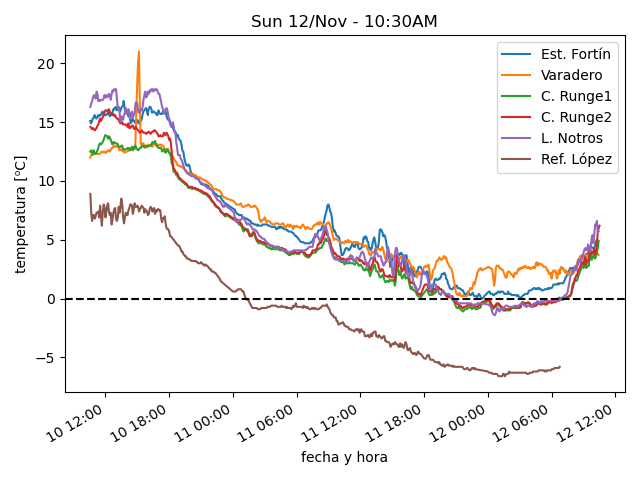
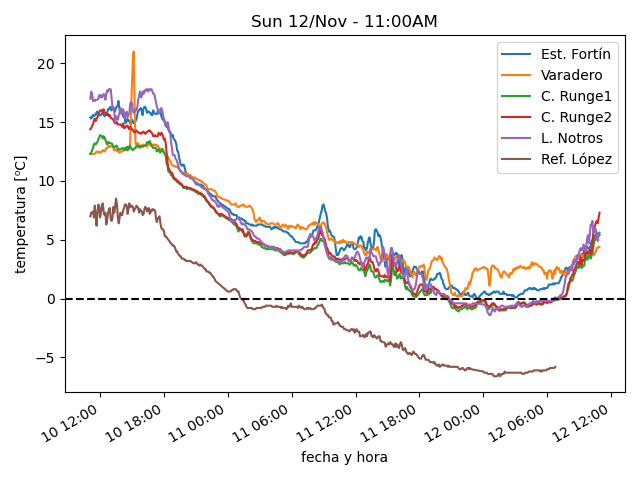
actualiza datos

diff --git a/estaciones/estacion2.html b/estaciones/estacion2.html
@@ -18,32 +18,32 @@
     </tr>
     <tr>
      <td class="stats_data">
-      10:24AM
+      10:54AM
      </td>
     </tr>
     <tr>
      <td class="stats_data">
-      3.7⁰C
+      4.4⁰C
      </td>
     </tr>
     <tr>
      <td class="stats_data">
-      -1.4⁰C
+      -0.1⁰C
      </td>
     </tr>
     <tr>
      <td class="stats_data">
-      69.2%
+      72.6%
      </td>
     </tr>
     <tr>
      <td class="stats_data">
-      1023.23hPa
+      1023.33hPa
      </td>
     </tr>
     <tr>
      <td class="stats_data">
-      13.9/18.5 km/hr NW
+      18.1/22.4 km/hr WNW
      </td>
     </tr>
     <tr>
@@ -53,12 +53,12 @@
     </tr>
     <tr>
      <td class="stats_data">
-      1.0
+      2.0
      </td>
     </tr>
     <tr>
      <td class="stats_data">
-      129.7 W/m²
+      222.5 W/m²
      </td>
     </tr>
    </tbody>

diff --git a/estaciones/estacion1.html b/estaciones/estacion1.html
@@ -18,22 +18,22 @@
     </tr>
     <tr>
      <td class="stats_data">
-      10:14AM
+      10:54AM
      </td>
     </tr>
     <tr>
      <td class="stats_data">
-      5.0⁰C
+      5.4⁰C
      </td>
     </tr>
     <tr>
      <td class="stats_data">
-      -2.4⁰C
+      -3.1⁰C
      </td>
     </tr>
     <tr>
      <td class="stats_data">
-      58.7%
+      54.0%
      </td>
     </tr>
     <tr>
@@ -43,7 +43,7 @@
     </tr>
     <tr>
      <td class="stats_data">
-      16.1/25.2 km/hr W
+      14.1/30.6 km/hr W
      </td>
     </tr>
     <tr>
@@ -53,12 +53,12 @@
     </tr>
     <tr>
      <td class="stats_data">
-      3.2
+      4.3
      </td>
     </tr>
     <tr>
      <td class="stats_data">
-      722.0 W/m²
+      874.0 W/m²
      </td>
     </tr>
    </tbody>

diff --git a/estaciones/estacion4.html b/estaciones/estacion4.html
@@ -18,32 +18,32 @@
     </tr>
     <tr>
      <td class="stats_data">
-      10:29AM
+      10:54AM
      </td>
     </tr>
     <tr>
      <td class="stats_data">
-      6.2⁰C
+      7.3⁰C
      </td>
     </tr>
     <tr>
      <td class="stats_data">
-      -0.2⁰C
+      0.4⁰C
      </td>
     </tr>
     <tr>
      <td class="stats_data">
-      63.5%
+      61.7%
      </td>
     </tr>
     <tr>
      <td class="stats_data">
-      1016.83hPa
+      1016.93hPa
      </td>
     </tr>
     <tr>
      <td class="stats_data">
-      2.1/3.2 km/hr NW
+      2.1/2.9 km/hr SSW
      </td>
     </tr>
     <tr>
@@ -58,7 +58,7 @@
     </tr>
     <tr>
      <td class="stats_data">
-      967.9 W/m²
+      968.1 W/m²
      </td>
     </tr>
    </tbody>

diff --git a/estaciones/estacion3.html b/estaciones/estacion3.html
@@ -18,12 +18,12 @@
     </tr>
     <tr>
      <td class="stats_data">
-      10:24AM
+      10:54AM
      </td>
     </tr>
     <tr>
      <td class="stats_data">
-      4.9⁰C
+      5.6⁰C
      </td>
     </tr>
     <tr>
@@ -33,17 +33,17 @@
     </tr>
     <tr>
      <td class="stats_data">
-      65.5%
+      62.1%
      </td>
     </tr>
     <tr>
      <td class="stats_data">
-      1007.92hPa
+      1008.13hPa
      </td>
     </tr>
     <tr>
      <td class="stats_data">
-      6.3/8.5 km/hr WNW
+      6.5/9.0 km/hr WNW
      </td>
     </tr>
     <tr>
@@ -58,7 +58,7 @@
     </tr>
     <tr>
      <td class="stats_data">
-      972.9 W/m²
+      990.3 W/m²
      </td>
     </tr>
    </tbody>

diff --git a/estaciones/estacion5.html b/estaciones/estacion5.html
@@ -18,32 +18,32 @@
     </tr>
     <tr>
      <td class="stats_data">
-      10:25AM
+      10:50AM
      </td>
     </tr>
     <tr>
      <td class="stats_data">
-      5.7⁰C
+      5.4⁰C
      </td>
     </tr>
     <tr>
      <td class="stats_data">
-      0.2⁰C
+      0.6⁰C
      </td>
     </tr>
     <tr>
      <td class="stats_data">
-      68.0%
+      70.0%
      </td>
     </tr>
     <tr>
      <td class="stats_data">
-      1019.98hPa
+      1020.49hPa
      </td>
     </tr>
     <tr>
      <td class="stats_data">
-      0.0/2.6 km/hr N
+      0.0/0.0 km/hr N
      </td>
     </tr>
     <tr>
